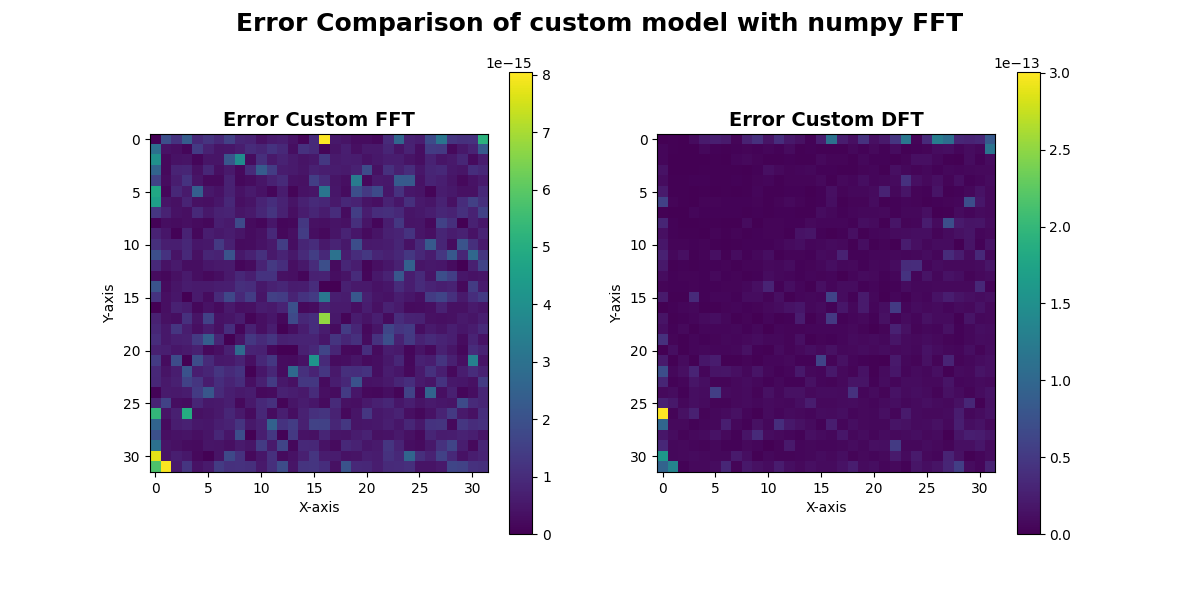
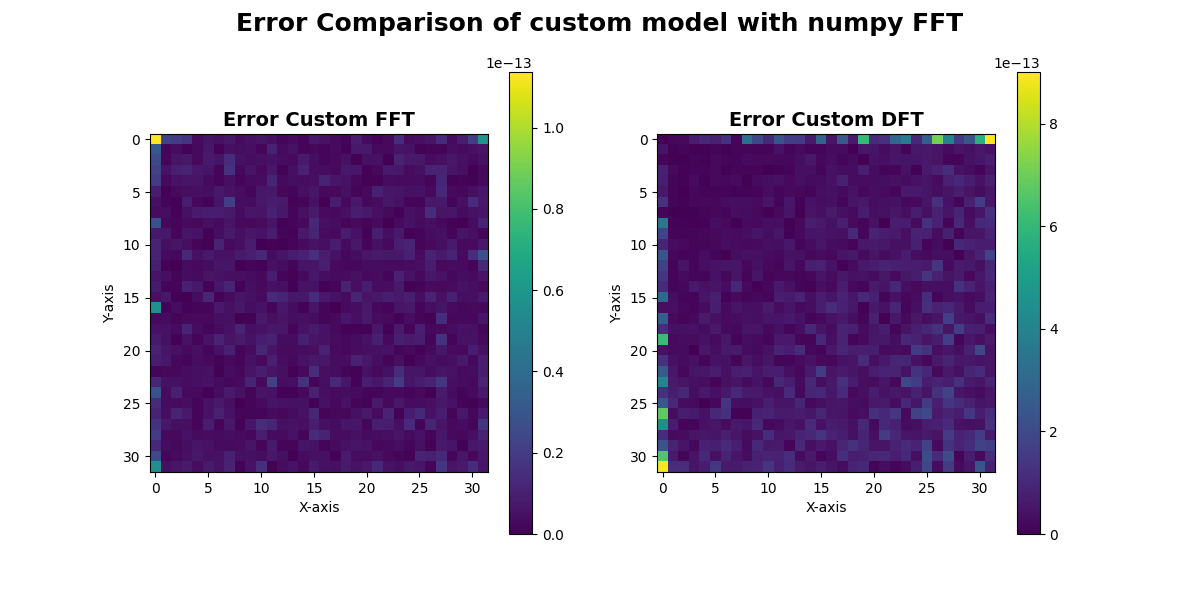
Fixed logic

diff --git a/src/TestingFourierTransform.py b/src/TestingFourierTransform.py
@@ -6,7 +6,7 @@ import os
 
 def compute_error(benchmark_model: np.ndarray, custom_model: np.ndarray) -> np.ndarray:
     """Compute the error between the FFT and Naive Fourier Transform."""
-    return np.abs(benchmark_model - custom_model) / np.abs(custom_model)
+    return np.abs(benchmark_model - custom_model)
 
 
 def plot_error(
